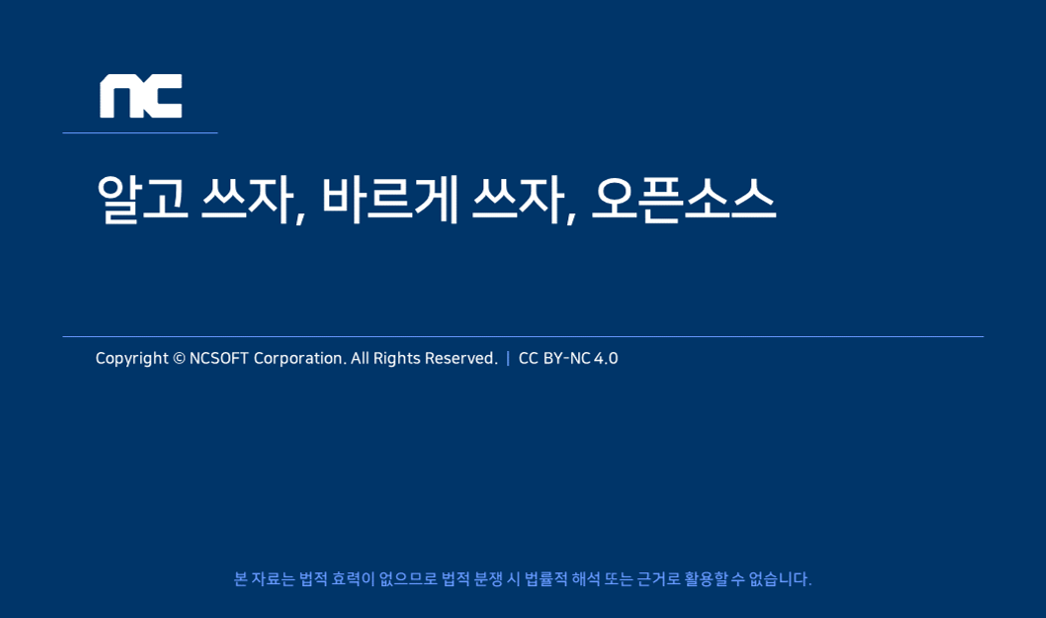
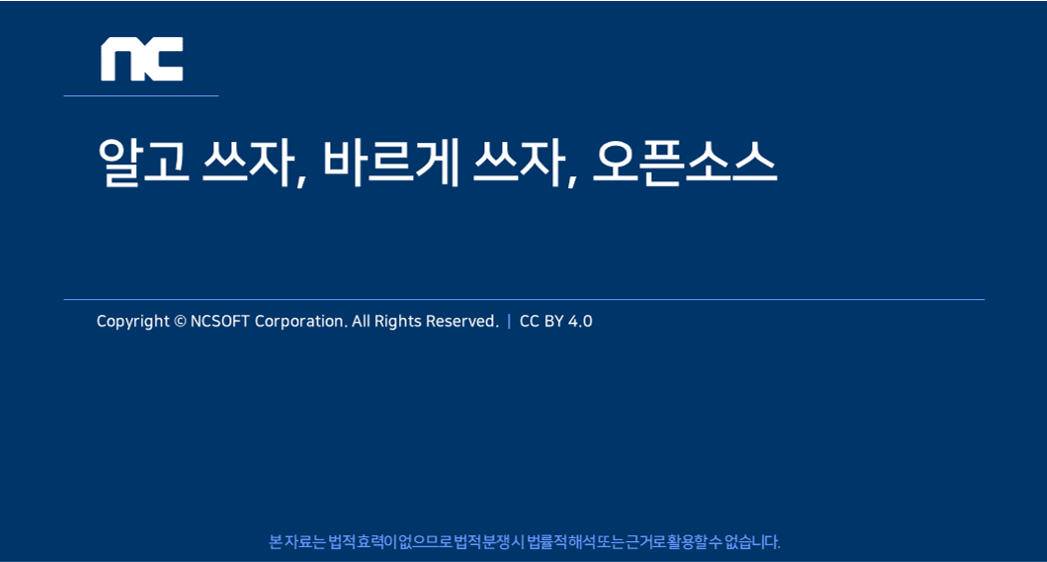
license has changed (cc by 4.0)

Changed region(s): [[0.0612, 0.0605, 0.7648, 0.363], [0.0, 0.9075, 1.0, 1.0], [0.0612, 0.5142, 0.9178, 0.605]]

diff --git a/content/ko/resource/basic-training/_index.md b/content/ko/resource/basic-training/_index.md
@@ -34,4 +34,4 @@ description: >
 
 ## License
 
-* [CC-BY-NC-4.0](https://creativecommons.org/licenses/by-nc/4.0/)
+* [CC-BY 4.0](https://creativecommons.org/licenses/by/4.0/)
